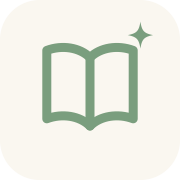
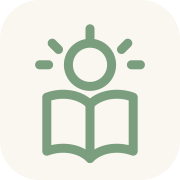
UI-genomgång: Mer-meny, sol-ikon, ny appikon, rätt feedback
- Rubrik 'Päivän sana' på Idag-sidan, stavning 'Idag' överallt
- Empty state: 'Inget ord förberett för idag'
- Sol-ikon på Idag-tabben
- Mer-meny (samma popover-mönster som tidy): Admin (skiftnyckel),
  Inställningar, Logga ut — bort från tabbaren
- Inställningar-sidan heter Inställningar
- Ny appikon: soluppgång över öppen bok
- Efter rättning visas bara rätt/fel-feedback, ingen 'klar'-text

Changed region(s): [[0.1944, 0.1111, 0.8333, 0.5833], [0.2222, 0.6111, 0.7778, 0.9167]]

diff --git a/index.html b/index.html
@@ -46,12 +46,7 @@
       <header class="topbar">
         <div>
           <p class="eyebrow">Dagens ord</p>
-          <h2>I dag</h2>
-        </div>
-        <div class="topbar-actions">
-          <button class="icon-btn" id="open-settings" type="button" aria-label="Inställningar">
-            <svg viewBox="0 0 24 24"><circle cx="12" cy="12" r="3" fill="none" stroke="currentColor" stroke-width="1.9"/><path d="M12 2v3M12 19v3M2 12h3M19 12h3M4.9 4.9l2.1 2.1M17 17l2.1 2.1M19.1 4.9L17 7M7 17l-2.1 2.1" fill="none" stroke="currentColor" stroke-width="1.7" stroke-linecap="round"/></svg>
-          </button>
+          <h2>Päivän sana</h2>
         </div>
       </header>
 
@@ -87,8 +82,7 @@
         <p id="today-feedback" class="feedback hidden"></p>
       </div>
 
-      <p id="today-done-note" class="done-note hidden">Dagens ord är klar — vi ses i morgon! 🌿</p>
-      <p id="today-empty" class="empty-note hidden">Inget ord i dag ännu — kön är tom.</p>
+      <p id="today-empty" class="empty-note hidden">Inget ord förberett för idag.</p>
     </section>
 
     <!-- ── practice ─────────────────────────────────────────── -->
@@ -160,8 +154,8 @@
     <section id="view-settings" class="view hidden">
       <header class="topbar">
         <div>
-          <p class="eyebrow">Inställningar</p>
-          <h2>Påminnelser</h2>
+          <p class="eyebrow">App</p>
+          <h2>Inställningar</h2>
         </div>
       </header>
       <div class="settings-card">
@@ -231,8 +225,8 @@
     <!-- ── tabbar ─────────────────────────────────────────── -->
     <nav id="tabbar" class="tabbar hidden">
       <button data-tab="today" class="tab active">
-        <svg viewBox="0 0 24 24"><path d="M4 11.5 12 4l8 7.5M6.5 9.8V20h11V9.8" fill="none" stroke="currentColor" stroke-width="1.9" stroke-linecap="round" stroke-linejoin="round"/></svg>
-        <span>I dag</span>
+        <svg viewBox="0 0 24 24"><circle cx="12" cy="12" r="4" fill="none" stroke="currentColor" stroke-width="1.9"/><path d="M12 2.5v2.2M12 19.3v2.2M2.5 12h2.2M19.3 12h2.2M4.9 4.9l1.6 1.6M17.5 17.5l1.6 1.6M19.1 4.9l-1.6 1.6M6.5 17.5l-1.6 1.6" fill="none" stroke="currentColor" stroke-width="1.9" stroke-linecap="round"/></svg>
+        <span>Idag</span>
       </button>
       <button data-tab="practice" class="tab">
         <svg viewBox="0 0 24 24"><path d="M12 3l2.5 5.5L20 9l-4 4 1 6-5-3-5 3 1-6-4-4 5.5-.5L12 3z" fill="none" stroke="currentColor" stroke-width="1.9" stroke-linejoin="round"/></svg>
@@ -242,15 +236,27 @@
         <svg viewBox="0 0 24 24"><path d="M4 7h16M4 12h16M4 17h10" fill="none" stroke="currentColor" stroke-width="1.9" stroke-linecap="round"/></svg>
         <span>Historik</span>
       </button>
-      <button data-tab="admin" class="tab hidden" id="tab-admin">
-        <svg viewBox="0 0 24 24"><circle cx="12" cy="12" r="3" fill="none" stroke="currentColor" stroke-width="1.9"/><path d="M12 2v3M12 19v3M2 12h3M19 12h3M4.9 4.9l2.1 2.1M17 17l2.1 2.1M19.1 4.9L17 7M7 17l-2.1 2.1" fill="none" stroke="currentColor" stroke-width="1.9" stroke-linecap="round"/></svg>
-        <span>Admin</span>
-      </button>
-      <button data-tab="signout" class="tab">
-        <svg viewBox="0 0 24 24"><path d="M9 21H5a2 2 0 0 1-2-2V5a2 2 0 0 1 2-2h4M16 17l5-5-5-5M21 12H9" fill="none" stroke="currentColor" stroke-width="1.9" stroke-linecap="round" stroke-linejoin="round"/></svg>
-        <span>Logga ut</span>
+      <button data-tab="more" class="tab">
+        <svg viewBox="0 0 24 24"><circle cx="5.5" cy="12" r="1.7" fill="currentColor"/><circle cx="12" cy="12" r="1.7" fill="currentColor"/><circle cx="18.5" cy="12" r="1.7" fill="currentColor"/></svg>
+        <span>Mer</span>
       </button>
     </nav>
+
+    <!-- ── more menu (popover above the Mer tab) ──────────── -->
+    <div id="more-menu" class="popover-menu hidden">
+      <button data-nav="admin" id="more-admin" class="hidden">
+        <svg viewBox="0 0 24 24"><path d="M14.7 6.3a1 1 0 0 0 0 1.4l1.6 1.6a1 1 0 0 0 1.4 0l3.77-3.77a6 6 0 0 1-7.94 7.94l-6.91 6.91a2.12 2.12 0 0 1-3-3l6.91-6.91a6 6 0 0 1 7.94-7.94l-3.76 3.76z" fill="none" stroke="currentColor" stroke-width="1.9" stroke-linecap="round" stroke-linejoin="round"/></svg>
+        Admin
+      </button>
+      <button data-nav="settings">
+        <svg viewBox="0 0 24 24"><circle cx="12" cy="12" r="3" fill="none" stroke="currentColor" stroke-width="1.9"/><path d="M12 2v3M12 19v3M2 12h3M19 12h3M4.9 4.9l2.1 2.1M17 17l2.1 2.1M19.1 4.9L17 7M7 17l-2.1 2.1" fill="none" stroke="currentColor" stroke-width="1.7" stroke-linecap="round"/></svg>
+        Inställningar
+      </button>
+      <button data-nav="signout" class="danger">
+        <svg viewBox="0 0 24 24"><path d="M9 21H5a2 2 0 0 1-2-2V5a2 2 0 0 1 2-2h4M16 17l5-5-5-5M21 12H9" fill="none" stroke="currentColor" stroke-width="1.9" stroke-linecap="round" stroke-linejoin="round"/></svg>
+        Logga ut
+      </button>
+    </div>
 
   </div>
 

diff --git a/js/app.js b/js/app.js
@@ -8,6 +8,7 @@
   const api = window.PsAPI;
 
   let authMode = "signin";
+  let currentTab = "today";
   let historyWords = [];
   let sortMode = "newest";
 
@@ -34,9 +35,28 @@
     if (el) el.classList.remove("hidden");
   }
 
+  const MORE_VIEWS = ["settings", "admin"]; // views reached via the Mer menu
+
+  function closeMoreMenu() {
+    $("#more-menu").classList.add("hidden");
+  }
+
+  function openMoreMenu() {
+    const menu = $("#more-menu");
+    const anchor = document.querySelector('#tabbar [data-tab="more"]');
+    menu.classList.remove("hidden");
+    const r = anchor.getBoundingClientRect();
+    menu.style.left = Math.max(12, Math.min(r.right - 200, window.innerWidth - 212)) + "px";
+    menu.style.top = (r.top - menu.offsetHeight - 10) + "px";
+  }
+
   function switchTab(tab) {
+    closeMoreMenu();
     if (tab === "signout") { doSignOut(); return; }
-    $$("#tabbar .tab").forEach((t) => t.classList.toggle("active", t.dataset.tab === tab));
+    if (tab === "more") { openMoreMenu(); return; } // menu, not a page
+    currentTab = tab;
+    const activeTab = MORE_VIEWS.includes(tab) ? "more" : tab;
+    $$("#tabbar .tab").forEach((t) => t.classList.toggle("active", t.dataset.tab === activeTab));
     if (tab === "today") { showView("today"); loadToday(); }
     if (tab === "practice") { showView("practice"); loadPractice(); }
     if (tab === "history") { showView("history"); renderHistory(); }
@@ -72,6 +92,7 @@
   }
 
   function doSignOut() {
+    closeMoreMenu();
     api.signOut();
     $$("#tabbar .tab").forEach((t) => t.classList.remove("active"));
     renderAuth();
@@ -79,7 +100,7 @@
 
   function enterApp() {
     $("#tabbar").classList.remove("hidden");
-    $("#tab-admin").classList.toggle("hidden", !api.isAdmin());
+    $("#more-admin").classList.toggle("hidden", !api.isAdmin());
     switchTab("today");
   }
 
@@ -97,7 +118,6 @@
     $("#word-card").classList.add("hidden");
     $("#today-exercise").classList.add("hidden");
     $("#today-feedback").classList.add("hidden");
-    $("#today-done-note").classList.add("hidden");
     $("#today-empty").classList.add("hidden");
     $("#push-onboarding").classList.add("hidden");
 
@@ -156,7 +176,6 @@
     fb.textContent = ok ? "Rätt! 🎉" : "Nästan — rätt svar: " + todayWord.finnish;
 
     $("#today-exercise").classList.add("hidden");
-    $("#today-done-note").classList.remove("hidden");
   }
 
   /* ════════════════════════ PRACTICE ════════════════════════ */
@@ -516,7 +535,17 @@
   });
   $("#tabbar").addEventListener("click", (e) => {
     const t = e.target.closest(".tab");
-    if (t) switchTab(t.dataset.tab);
+    if (!t) return;
+    if (t.dataset.tab === "more" && !$("#more-menu").classList.contains("hidden")) {
+      closeMoreMenu();
+      const back = MORE_VIEWS.includes(currentTab) ? "more" : currentTab;
+      $$("#tabbar .tab").forEach((x) => x.classList.toggle("active", x.dataset.tab === back));
+      return;
+    }
+    if (t.dataset.tab === "more") {
+      $$("#tabbar .tab").forEach((x) => x.classList.toggle("active", x.dataset.tab === "more"));
+    }
+    switchTab(t.dataset.tab);
   });
 
   // today
@@ -541,8 +570,20 @@
   $("#modal-close").addEventListener("click", closeModal);
   $("#modal-backdrop").addEventListener("click", closeModal);
 
-  // settings + push onboarding
-  $("#open-settings").addEventListener("click", () => switchTab("settings"));
+  // Mer menu + settings + push onboarding
+  $("#more-menu").addEventListener("click", (e) => {
+    const nav = e.target.closest("[data-nav]");
+    if (nav) switchTab(nav.dataset.nav);
+  });
+  document.addEventListener("click", (e) => {
+    // close the Mer menu when tapping anywhere outside it / its tab
+    if (!$("#more-menu").classList.contains("hidden") &&
+        !e.target.closest("#more-menu") && !e.target.closest('[data-tab="more"]')) {
+      closeMoreMenu();
+      const back = MORE_VIEWS.includes(currentTab) ? "more" : currentTab;
+      $$("#tabbar .tab").forEach((x) => x.classList.toggle("active", x.dataset.tab === back));
+    }
+  });
   $("#push-toggle").addEventListener("change", togglePush);
   $("#push-optin").addEventListener("click", optInPush);
   $("#push-dismiss").addEventListener("click", dismissPushOnboarding);

diff --git a/css/style.css b/css/style.css
@@ -1002,3 +1002,27 @@ h2 { font-size: 28px; }
 .onboarding-desc { color: var(--ink-soft); font-size: 14px; margin: 6px 0 16px; }
 .onboarding-btns { display: flex; gap: 10px; }
 .onboarding-btns .btn { flex: 1; }
+
+/* ── Mer popover menu (same pattern as tidy's snooze menu) ── */
+.popover-menu {
+  position: fixed; z-index: 120;
+  background: var(--card);
+  border: 1.5px solid var(--line);
+  border-radius: var(--radius-md);
+  box-shadow: var(--shadow-lift);
+  padding: 6px;
+  display: flex; flex-direction: column; min-width: 200px;
+  animation: ps-pop .18s ease both;
+}
+.popover-menu button {
+  display: flex; align-items: center; gap: 10px;
+  font: inherit; font-size: 14.5px; font-weight: 600;
+  text-align: left; padding: 11px 14px;
+  background: none; border: none; border-radius: 10px;
+  color: var(--ink); cursor: pointer;
+}
+.popover-menu button svg { width: 18px; height: 18px; flex: none; color: var(--ink-soft); }
+.popover-menu button:active { background: var(--cream-deep); }
+.popover-menu button.danger { color: var(--danger); }
+.popover-menu button.danger svg { color: var(--danger); }
+@keyframes ps-pop { from { opacity: 0; transform: translateY(6px) scale(.97); } to { opacity: 1; transform: none; } }

diff --git a/js/i18n.js b/js/i18n.js
@@ -10,7 +10,7 @@ window.PS_I18N = {
   haveAccount: "Har du redan ett konto?",
   signOut: "Logga ut",
 
-  tabToday: "I dag",
+  tabToday: "Idag",
   tabPractice: "Öva",
   tabHistory: "Historik",
   tabAdmin: "Admin",
@@ -18,7 +18,7 @@ window.PS_I18N = {
   todayEyebrow: "Dagens ord",
   loadingWord: "Hämtar dagens ord…",
   tapToReveal: "Tryck för att visa betydelsen",
-  noWordToday: "Inget ord i dag ännu — kön är tom.",
+  noWordToday: "Inget ord förberett för idag.",
 
   historyTitle: "Historik",
   historySearch: "Sök ord…",
